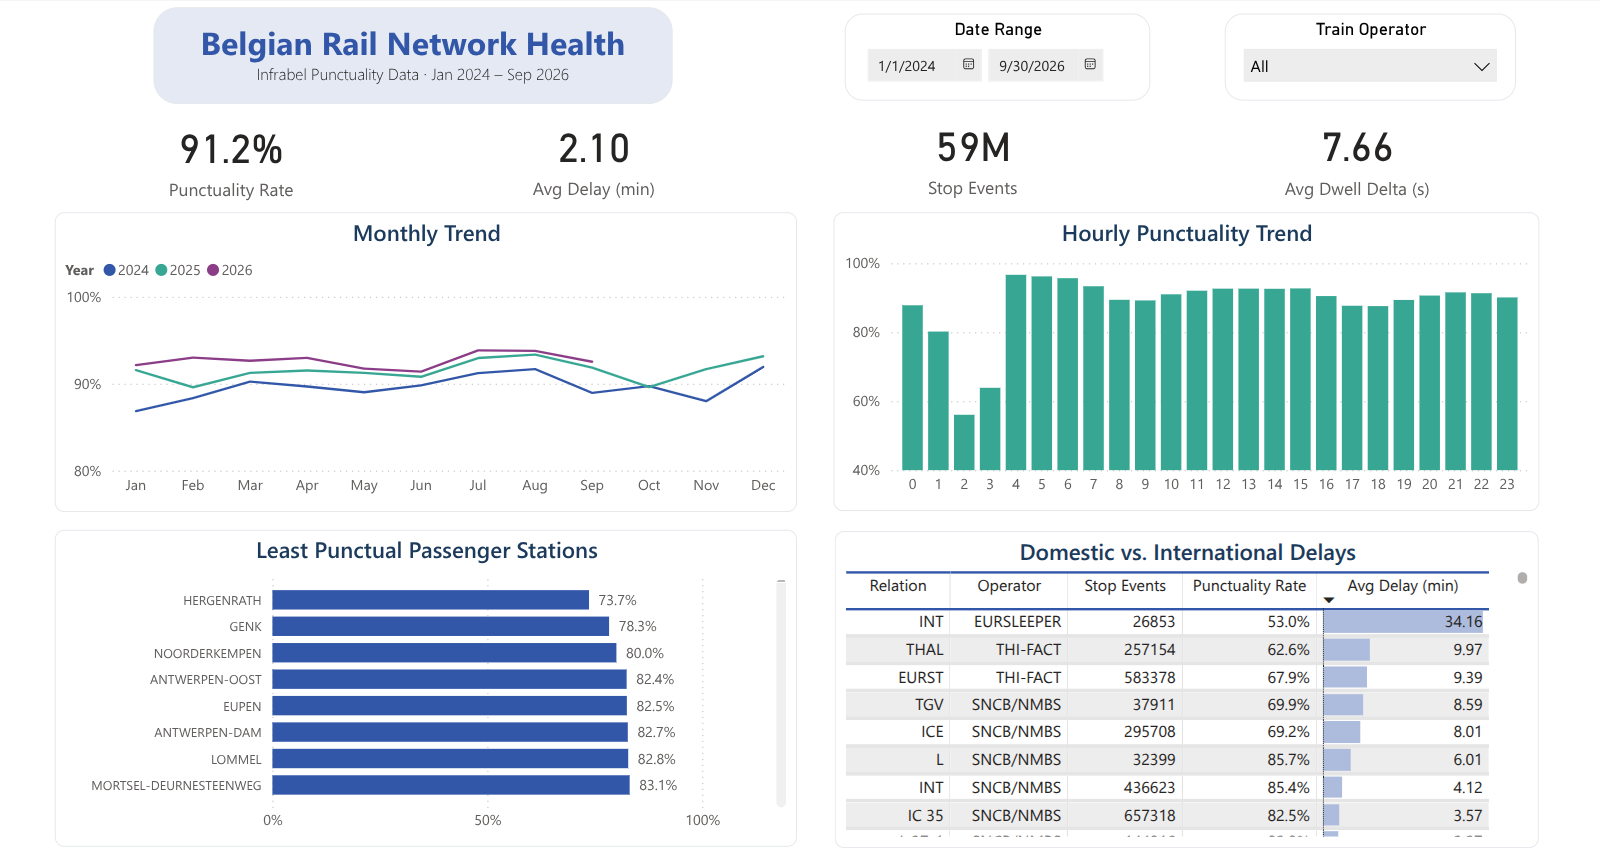
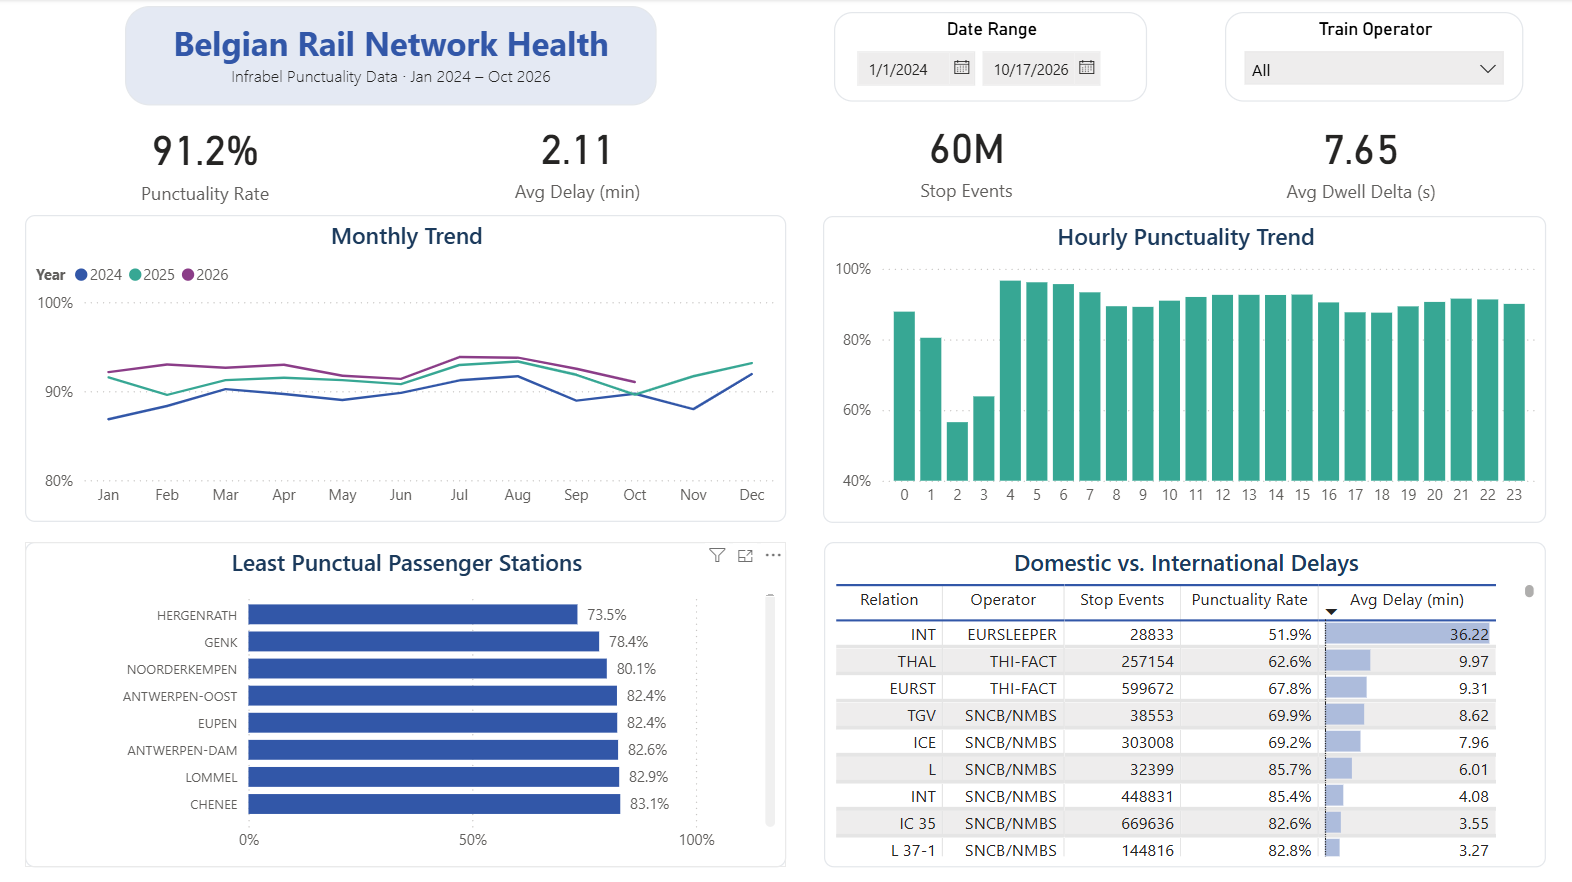
docs(readme): add data quality diagram and refresh screenshots

diff --git a/README.md b/README.md
@@ -177,14 +177,7 @@ rail-punctuality-lakehouse/
 
 Runs daily at **10:00 Europe/Brussels** on serverless compute. The job is defined in `resources/rail_punctuality_daily.job.yml` and deployed with Databricks Asset Bundles; no manual edits in the workspace.
 
-```mermaid
-flowchart LR
-    A[bronze_ingest] --> B[silver_transform]
-    B --> F[station_identity]
-    F --> C[gold_star_schema]
-    C --> E[gold_station_enrichment]
-    B --> D[data_quality]
-```
+![Job task graph](docs/img/job_tasks.png)
 
 | Task | Purpose |
 |---|---|
@@ -199,7 +192,7 @@ Failure notifications are configured at job level. The schedule sits after Infra
 
 ![Job run history](docs/img/job_runs.png)
 
-*Early-September duration spikes (~22 min vs. ~3 min baseline) came from ad-hoc backfills run right before the daily job.*
+*The ~3 h runs (Sep 25, Sep 28, Oct 5) are `bronze_ingest` retrying hourly until a late D-1 export was published, under the earlier 07:00 schedule. Since the move to 10:00, a run takes 4–5 min.*
 
 ### Backfill and publishing (ad-hoc)
 
@@ -218,6 +211,8 @@ Monthly exports (~2M rows each) are loaded by hand, one year per run, outside th
 - Do not run backfills right before the scheduled job: `max_concurrent_runs: 1` does not serialize them against it.
 
 ## Data Quality
+
+![How data quality works](docs/img/data_quality_flow.png)
 
 Every scheduled run appends one row per rule to `ops.dq_results`: rows checked, rows failed, failure percentage and verdict. Rules are failure conditions, so `rows_failed == 0` means PASS. An assertion over 0 rows fails.
 
